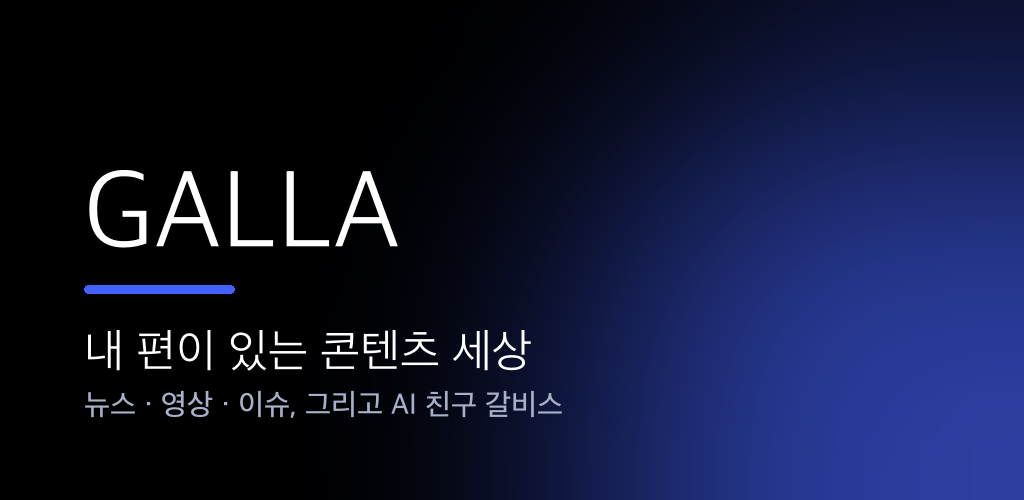
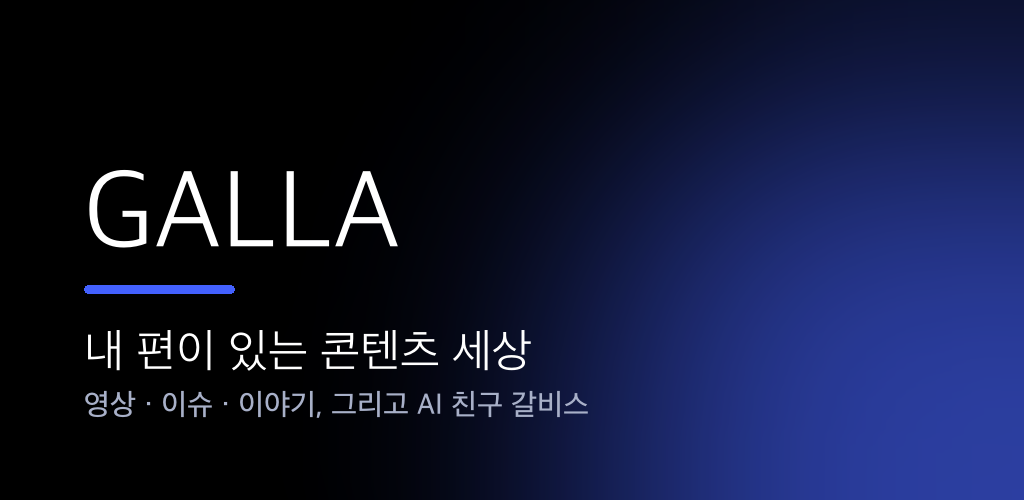
docs(store): 「뉴스」를 앞세우지 않는다 — 언론사 취급 위험
사장님 지시(2026-09-09): 갈라를 소개할 때 뉴스를 전면에 내세우면
언론사·뉴스서비스로 취급받아 문제 삼힐 소지가 있다. '콘텐츠'로 간다.
다만 **검색 키워드/태그에는 남긴다** — 노출까지 포기할 이유는 없다.
읽는 사람 눈에 '뉴스 서비스'로 보이는 자리만 피하면 된다.

고친 것:
 · 피처 그래픽 — "뉴스 · 영상 · 이슈" → "영상 · 이슈 · 이야기, 그리고 AI 친구 갈비스"
 · Play 간단한 설명 — "뉴스·영상·이슈, 뭘 보든..." → "영상도 이슈도, 뭘 보든..."
 · Play/App Store 설명 첫 문단 — "뉴스와 영상" → "영상과 이슈"
 · 두 스토어 모두 저장 완료(옛 피처 그래픽은 삭제, 1/1 로 교체)

docs/store-listing.md 는 **정본으로 다시 씀**. 지금까지 이 문서는 7월 초안이라
사행성 표현(베팅·잭팟·GP를 걸고)과 뉴스 전면 배치가 그대로 남아 있었다 —
다음에 읽는 사람이 이걸 보고 또 잘못된 문구를 쓴다. 실제 등록 내용을 위에 올리고
옛 초안은 '그대로 쓰지 말 것' 표시와 함께 아래로 내렸다.

함께 기록해 둔 두 함정:
 · galla.im/help.html · faq.html 은 **없는 페이지**다. SPA 폴백이 200 을 돌려줘
   살아 있는 것처럼 보이는데 심사자가 열면 지원 페이지가 아니다. 실제는 /support.
   (App Store 지원 URL 에 help.html 을 넣었다가 발견해서 고쳤다)
 · App Store 설명에 ■(U+25A0) ─(U+2500) 같은 도형 문자를 쓰면
   "유효하지 않은 문자" 로 저장이 막힌다.

Changed region(s): [[0.25, 0.78, 0.5625, 0.84], [0.0625, 0.78, 0.2188, 0.84]]

diff --git a/docs/store-listing.md b/docs/store-listing.md
@@ -1,4 +1,42 @@
-# GALLA 앱스토어 등록 자료 (구글 플레이 우선)
+# GALLA 앱스토어 등록 자료 (정본)
+
+> 2026-09-09 갱신. **아래는 실제로 두 스토어에 등록·저장된 내용**이다.
+> 그 아래 「옛 초안」은 기록용으로만 남긴다 — 사행성 표현과 '뉴스' 전면 배치가 들어 있어
+> 그대로 쓰면 안 된다.
+
+## ⛔ 문구 원칙 — 「뉴스」를 앞세우지 않는다
+
+전면 문구(한 줄 소개·헤드라인·프로모션 텍스트·설명 첫 문단·피처 그래픽)에
+「뉴스」를 넣지 않는다. **언론사·뉴스서비스로 취급받을 소지**가 있다(사장님 지시 2026-09-09).
+검색 키워드/태그에는 넣어도 된다 — 노출은 포기하지 않는다.
+기능 목록 안의 '갈라뉴스' 한 줄도 괜찮다. 전면 배치만 금지다.
+
+사행성 표현도 같은 원칙으로 금지: 베팅·잭팟·판돈 → 예측 참여·보너스 매치·대결 GP.
+
+## 등록 완료 상태 (2026-09-09)
+
+| | Google Play | App Store |
+|---|---|---|
+| 앱 | `im.galla` (앱ID 4972465803992483481) | `im.galla` (앱ID 6808511115) |
+| 상태 | 내부 테스트 6(1.0.3) 배포됨 | iOS 1.0 제출 준비 중 |
+| 앱 이름 | 갈라 GALLA | 갈라 GALLA |
+| 한 줄 | 영상도 이슈도, 뭘 보든 내 편이 있다. AI 친구 갈비스와 함께하는 콘텐츠 플랫폼 (46/80) | 〃 (47/170, 프로모션 텍스트) |
+| 설명 | 1,450자 | 1,322자 |
+| 키워드 | 태그 5개: 개인 비서·뉴스/잡지·동영상 스트리밍·문자 메시지·소셜 | 콘텐츠,뉴스,토론,찬반,커뮤니티,AI친구,챗봇,실시간검색,급상승,맛집지도,여행,숏폼,오픈채팅,예측 (54/100) |
+| 지원 URL | contact@galla.im | https://galla.im/support |
+| 마케팅 URL | https://company.galla.im | https://galla.im |
+| 피처 그래픽 | `assets/store-feature-1024x500.png` | (해당 없음) |
+| 스크린샷 | `assets/store-screens/` 3장 | ⬜ 6.5" 1284x2778 필요 |
+
+⚠ `galla.im/help.html` · `faq.html` 은 **존재하지 않는다.** SPA 폴백이 200을 돌려줘서
+살아 있는 것처럼 보이지만 심사자가 열면 지원 페이지가 아니다. 실제 페이지는 `/support`.
+
+⚠ App Store 설명에는 `■`(U+25A0) `─`(U+2500) 같은 도형 문자를 쓰면
+"유효하지 않은 문자" 로 저장이 막힌다. 대괄호·하이픈으로.
+
+---
+
+# 옛 초안 (2026-07, 기록용 — 그대로 쓰지 말 것)
 
 등록 URL: [play.google.com/console](https://play.google.com/console) · 개발자 등록비 $25(1회).
 안드로이드 앱(Capacitor) 빌드는 이미 있음. iOS는 나중(개발자 $99/년).
